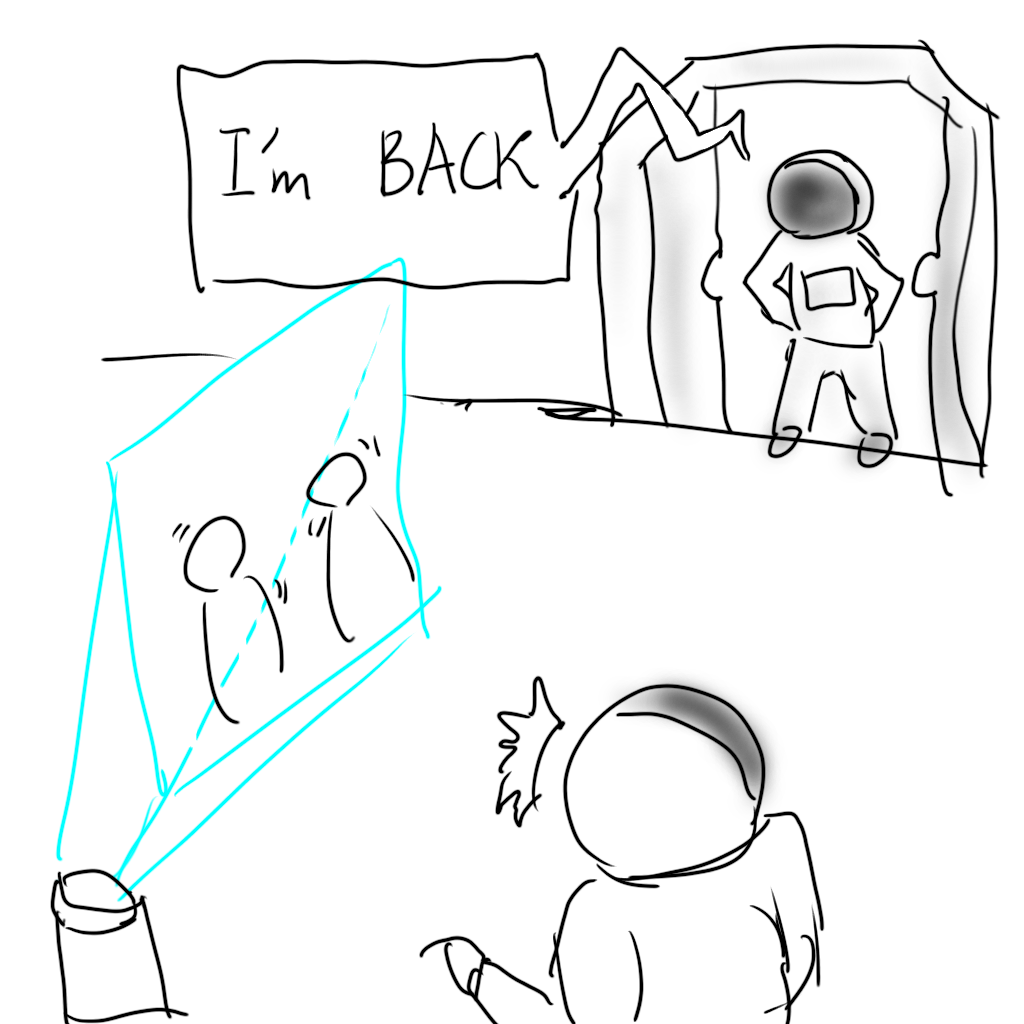
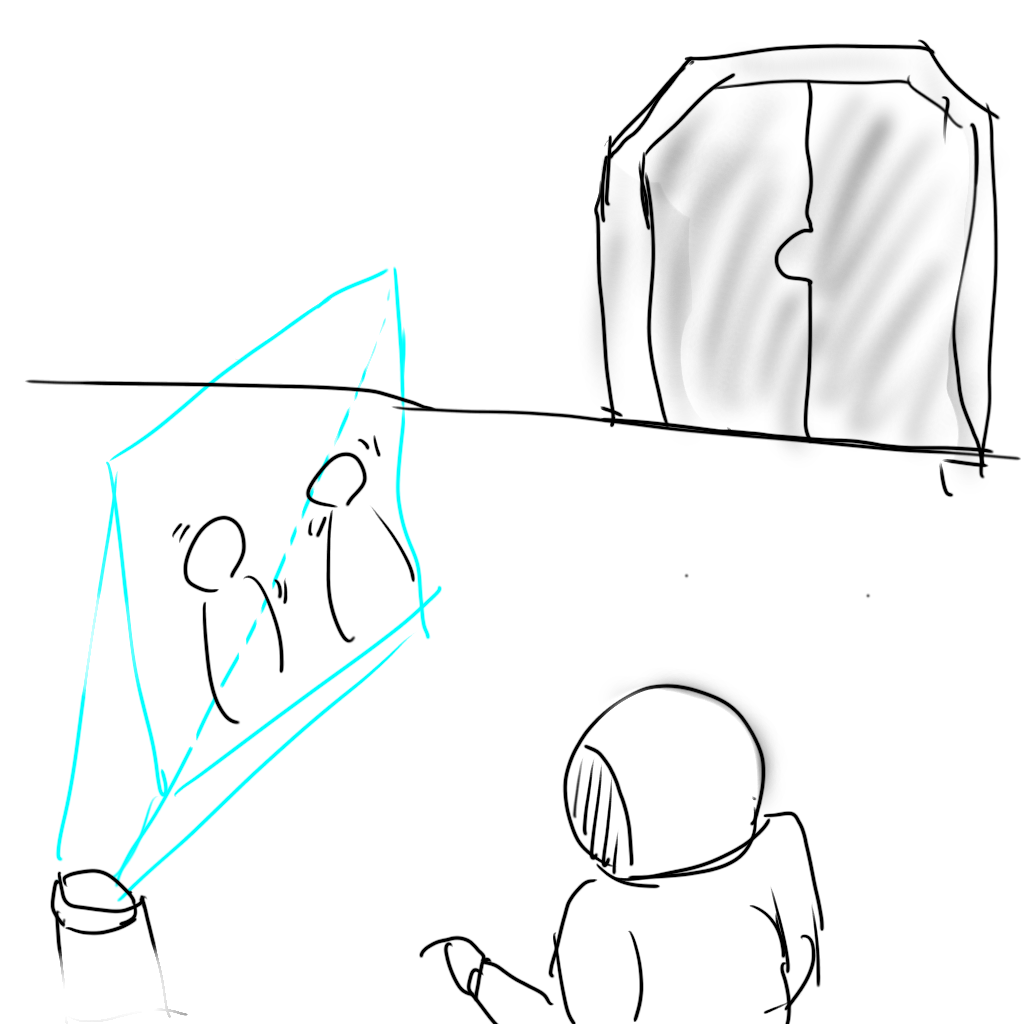
Change Ending Scene & Credit

diff --git a/src/EndingScene/EndingGUIScript.h b/src/EndingScene/EndingGUIScript.h
@@ -33,14 +33,30 @@ private:
 	size_t dialogIndex = 0;
 
 	std::vector<std::pair<std::string, std::string>> dialog = {
-		{"Player", "1"},
-		{"Player", "2"},
+		{"Partner", "Oh, It's been 12 hours after he called me."},
+		{"Partner", "Time's up while watching 'Coin Game'.\nI hope he's okay."},
+		{" ", "( As soon as the partner find SpaceWalkie-Talkie... )"},
+		{"Player", "I'm back!!!"},
+		{"Partner", "Uh... How did you get here? Who helped you?"},
+		{" ", "(Explain everything.)"},
+		{"Partner", "So, you swim here? Through the asteroids?"},
+		{"Player", "Yes. As you told."},
+		{"Partner", "And destroy meteor?"},
+		{"Player", "Right."},
+		{"Partner", "Even defeat aliens?"},
+		{"Player", "Sure."},
+		{"Partner", "I cannot belive it. You're kidding."},
+		{"Player", "Well, I realized that swimming in space is quite useful."},
+		{"Player", "I'm think I'm gonna be a space-first space swimmer."},
+		{" ", "( Believe or not, over time, space swimming becomes a sport\n that everyone enjoys! )"},
+		{" ", "The End."},
 	};
 
 	std::vector <std::vector<std::string>> credit = {
-		{"Game Design", "Someeone"},
-		{"3D Modeling", "Someeone"},
-		{"Sound", "Kim Jeong-won"},
+		{"- Game Design", "Scenario by Kim Jeong-won", "Game Features by Jaesung Park"},
+		{"- Programming", "Kim Jeong-won (System, Audio, Animation...)", "Jaesung Park (System, Physics, AI...)"},
+		{"- Art", "2D Images by Kim Jeong-won", "3D Modeling by Jaesung Park" },
+		{"- Sound", "Original SoundTrack by Kim Jeong-won"},
 		{"Thank You for Playing!"},
 	};
 
@@ -51,10 +67,11 @@ private:
 	std::vector<std::string> imagePaths = {
 		"images/ending1.png",
 		"images/ending2.png",
+		"images/ending3.png",
 	};
 	std::vector<GLuint> images = {};
 	std::vector<uint> imageIndex = {
-		0, 1
+		0, 0, 0, 1, 1, 1, 1, 1, 1, 1, 1, 1, 1, 1, 1, 2, 2,
 	};
 
 	uint guiEventId = 0;
